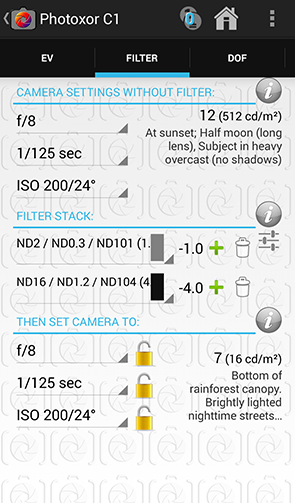
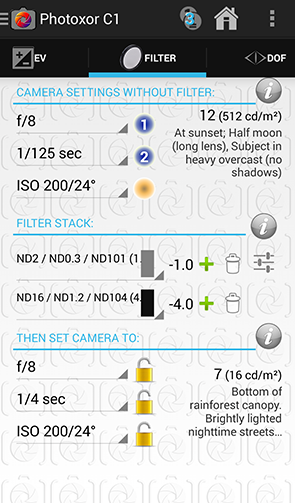
update for version 1.4.3 (40)

diff --git a/help/c1/en/help.htm b/help/c1/en/help.htm
@@ -34,7 +34,11 @@
       </li>
       <li><a href="#L586">Filter Stack (FILTER)</a>
         <ul>
-          <li><a href="#L1067">Camera Settings without Filter</a></li>
+          <li><a href="#L1067">Camera Settings without Filter</a>
+            <ul>
+              <li><a href="#L8449">User Presets</a></li>
+            </ul>
+          </li>
           <li><a href="#L1076">Filter Stack</a></li>
           <li><a href="#L1081">Then Set Camera To</a></li>
         </ul>
@@ -91,6 +95,7 @@
               <li><a href="#L20983">List Features</a></li>
               <li><a href="#L3695">Settings - Cameras</a></li>
               <li><a href="#L3697">Settings - Filters</a></li>
+              <li><a href="#L9439">Settings - Exposure Presets</a></li>
               <li><a href="#L3699">Settings - Print Definitions</a></li>
               <li><a href="#L6553">Settings - Location Definitions</a></li>
             </ul>
@@ -126,6 +131,11 @@
 </div>
 
 <h2 id="L4277">Introduction</h2>
+
+<p>This document is for Photoxor C1 version 1.4.3 (41), which can be installed
+or updated for free from <a name="Google" id="Google"
+href="http://play.google.com/store/apps/details?id=com.photoxor.fotoapp">Google
+Play</a>.</p>
 
 <p>Photoxor C1 is a photography tool for <strong>exposure</strong> and
 <strong>depth of field</strong> calculations, <strong>GPS location
@@ -299,6 +309,32 @@ Filter screen. </p>
 
 <p>TIp: In case a filter is attached already (such as a protective or UV
 filter), there is not need to remove, just don't add to the filter stack.</p>
+
+<h5 id="L8449">User Presets</h5>
+
+<p>User exposure settings allow you to quickly preset your preferred camera
+settings for various lighting conditions. The free version gives you two
+settings using the blue buttons. Purchasing the Filter Pro add-on enables the
+use of named presets, which are access with the golden button.</p>
+<dl>
+  <dt><img alt="user EV 1" src="../images/Button_EV_User1.png" width="26"
+  height="26" /> or <img alt="user EV 2" src="../images/Button_EV_User2.png"
+  width="26" height="26" /></dt>
+    <dd>Select aperture, exposure time and film speed and then perform a 'long'
+      click on one of the blue buttons to store the setting. To recall the
+      stored setting perform a 'short' click.</dd>
+  <dt><img alt="User EV Selection List" src="../images/Button_User_Sel.png"
+  width="26" height="26" /></dt>
+    <dd>Select aperture, exposure time and film speed and then perform a 'long'
+      click on the golden button. This brings up a dialog to store the current
+      settings.</dd>
+    <dd>To recall a setting perform a 'short' click, which shows a dialog to
+      select one of the name stored settings. You are also able to add the
+      current setting as a new preset or go to the list of presets.</dd>
+    <dd><img alt="EV selection dialog"
+      src="../images/Screenshot_evsettingsel_dialog_p_en.png" /></dd>
+  <dt></dt>
+</dl>
 
 <h4 id="L1076">Filter Stack</h4>
 
@@ -952,7 +988,7 @@ extensions allows to configure between 2 and 8 significant digits results for
 <p>For CoC calculations this option enables configuration of the comfortable
 human eye viewing angle and human eye resolution.</p>
 
-<h3 id="L21507">Filter Stack</h3>
+<h3 id="L21507">Filter Pro</h3>
 
 <p>Extend your exposure calculations with a Filter Stack and more precise
 filter definition.</p>
@@ -962,6 +998,9 @@ filters and calculate the resulting effect.</p>
 
 <p>The light reduction factor can be defined more precisely in 1/10th of a
 Stop, i.e. 9.9, 10.0, 10.1.</p>
+
+<p>Additionally you are able to define custom exposure settings for your
+specific lighting conditions and give them a meaningful scenario name.</p>
 
 <h3 id="L21512">Tracking Pro</h3>
 
@@ -1080,6 +1119,23 @@ filters characterized by the level of light reduction.
     <dd>The reduction of light is entered in the number stops.</dd>
     <dd>If you purchased to <em>Filter Stack</em> option, then a fractional
       stop value can be entered and used for the calculation.</dd>
+</dl>
+<a id="EvSettingList"></a> <a id="EvSettingDetails"></a> 
+
+<h5 id="L9439">Settings - Exposure Presets</h5>
+
+<p>Exposure presets are used to quickly access preferred camera settings for
+specific lighting situations.</p>
+<dl>
+  <dt>Aperture</dt>
+    <dd>The aperture value.</dd>
+  <dt>Exposure Time</dt>
+    <dd>The exposure time.</dd>
+  <dt>Film Speed</dt>
+    <dd>The film speed (ISO).</dd>
+  <dt>EV</dt>
+    <dd>The EV value calculated from the set aperture, exposure time, film
+      speed.</dd>
 </dl>
 <a id="PrintDefsList"></a> <a id="PrintDefDetails"></a> 
 
